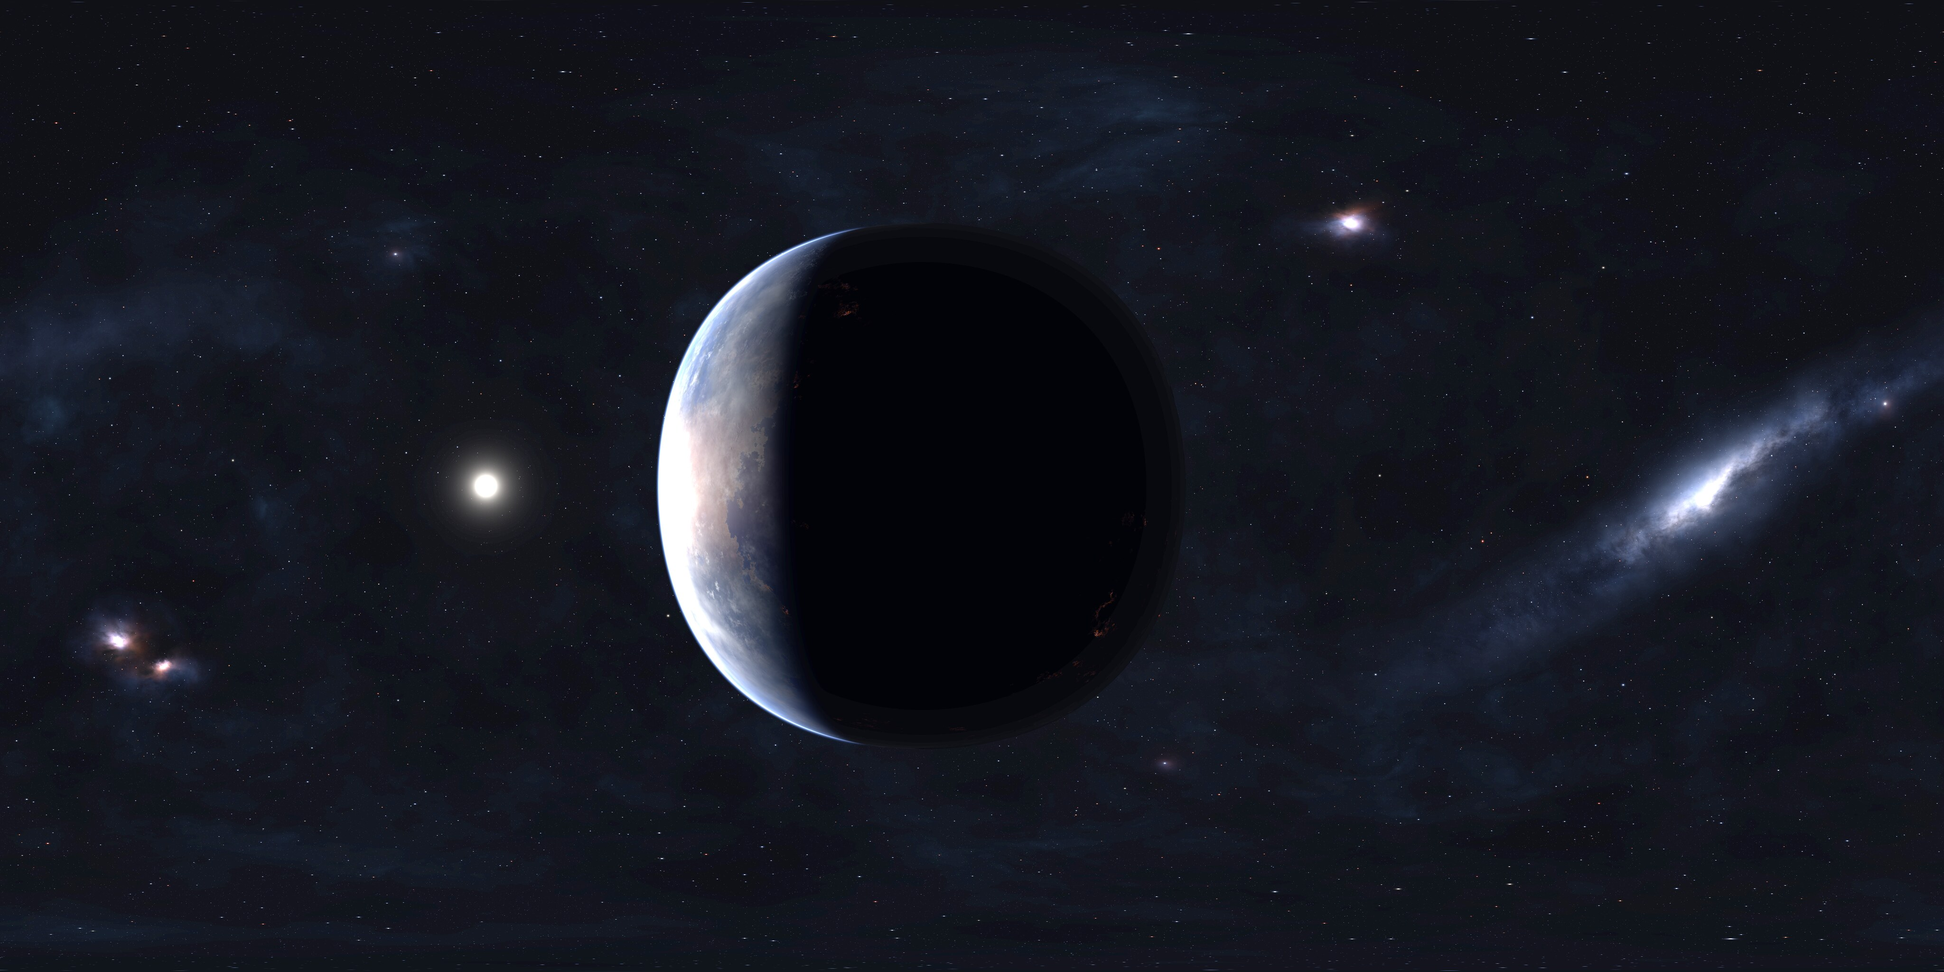
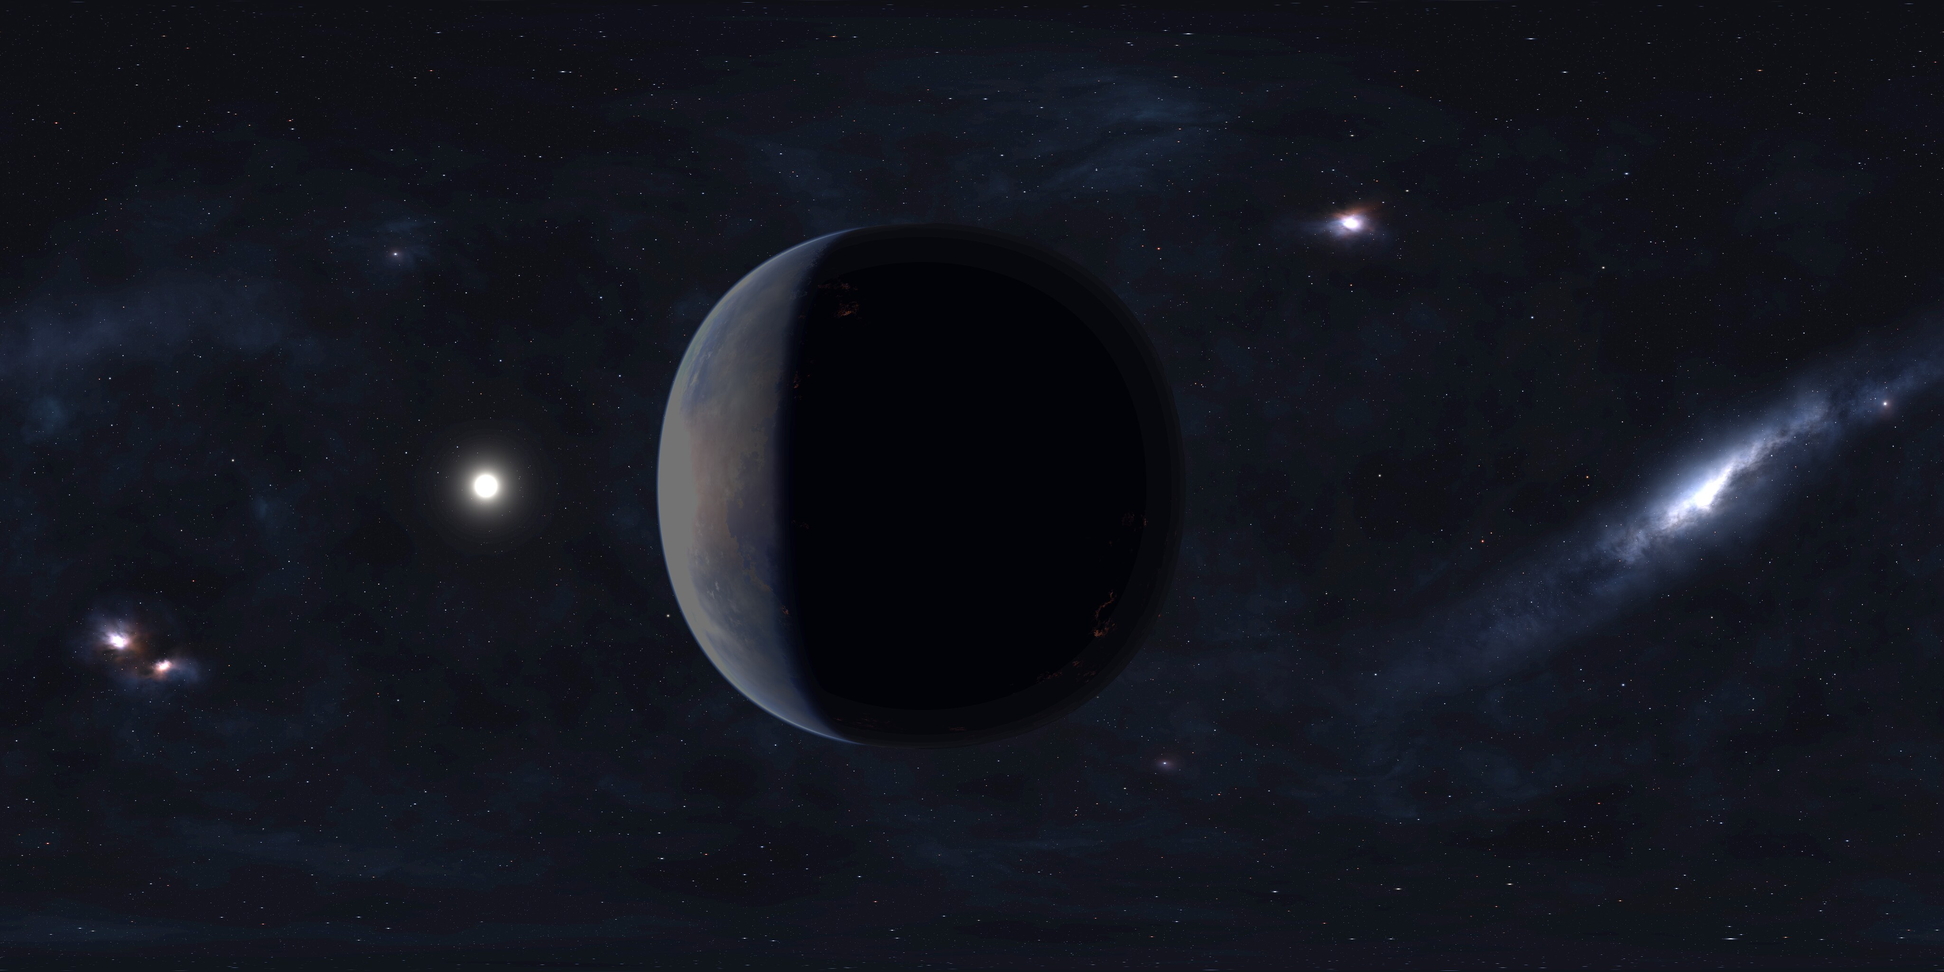
Skyboxes: planets darkened, crescent at the top edge in the default and chase views
The four planet textures are re-graded and darkened inside a soft disc mask
(lit crescent ~230 -> ~105). Planets sit below the play plane (-24 deg,
Aurelia -4 deg) with sector yaws 12/16 so the crescent shows top centre in the
default and chase views and never behind the ship there; flat views may show
the planet behind the ship (mean disc luminance <= 37). Selftest stage 127
checks the placement; ui-shots measure the disc.

Claude-Session: https://claude.ai/code/session_013qZue1FgKUXpDCCcReaXcD

Changed region(s): [[0.3125, 0.25, 0.4375, 0.75]]

diff --git a/godot/scripts/UiShots.Sky.cs b/godot/scripts/UiShots.Sky.cs
@@ -1,3 +1,5 @@
+using System.Collections.Generic;
+using System.IO;
 using System.Linq;
 using Godot;
 using SpaceSim.Core.Model;
@@ -6,7 +8,7 @@ namespace SpaceAdventure;
 
 /// <summary>
 /// Bilder der Himmelskugeln (<c>--ui-shots-sky</c>, eigene Datei; Stufen 599_xxx): je Sektor Standardkamera, Rückansicht (Kurs -Z) und weit
-/// herausgezoomt. Aufruf am besten im Handyformat: <c>godot-mono --path godot --resolution 2340x1080 -- --ui-shots &lt;ordner&gt; --ui-shots-sky</c>.
+/// herausgezoomt; Planetensektoren zusätzlich steil (80°), flach (20°) und flache Rückansicht, mit Messung der Planetenscheibe (<c>sky-messung.txt</c>). Aufruf am besten im Handyformat: <c>godot-mono --path godot --resolution 2340x1080 -- --ui-shots &lt;ordner&gt; --ui-shots-sky</c>.
 /// </summary>
 public partial class UiShots
 {
@@ -24,6 +26,8 @@ public partial class UiShots
 		if (_skyIdx >= list.Length) { _m.TestCameraAction("cam_free"); _m.TestMenu("cam_reset"); _stage = 600_000; _wait = 5; return; }
 		var sec = u.Sectors[list[_skyIdx]];
 		string name = sec.Name.Replace("Sektor ", "").ToLowerInvariant();
+		bool planet = sec.Planet is not null;
+		string F(string view) => $"sky-{_skyIdx + 1:00}-{name}-{view}.png";
 		switch (_stage)
 		{
 			case 599_010:
@@ -39,11 +43,71 @@ public partial class UiShots
 				_m.TestSetCam(0f, 57.72f, 44.94f);   // Standardansicht: Versatz (0, 38, 24)
 				_stage = 599_011; _wait = 30; return;
 			}
-			case 599_011: Capture($"sky-{_skyIdx + 1:00}-{name}-standard.png"); _stage = 599_012; _wait = 5; return;
-			case 599_012: _m.TestCameraAction("cam_chase"); _stage = 599_013; _wait = 45; return;
-			case 599_013: Capture($"sky-{_skyIdx + 1:00}-{name}-rueckansicht.png"); _stage = 599_014; _wait = 5; return;
+			case 599_011: SkyCapture(F("standard"), sec); _stage = planet ? 599_020 : 599_012; _wait = 5; return;
+			// Planetensektoren: zusätzlich steil (80°) und flach (20°) — Lage der Planetenscheibe und ihre Helligkeit (sky-messung.txt)
+			case 599_020: _m.TestSetCam(0f, 80f, 44.94f); _stage = 599_021; _wait = 20; return;
+			case 599_021: SkyCapture(F("steil"), sec); _stage = 599_022; _wait = 5; return;
+			case 599_022: _m.TestSetCam(0f, 20f, 44.94f); _stage = 599_023; _wait = 20; return;
+			case 599_023: SkyCapture(F("flach"), sec); _stage = 599_012; _wait = 5; return;
+			case 599_012: _m.TestCameraAction("cam_chase"); _m.TestCameraAction("cam_reset"); _stage = 599_013; _wait = 90; return;   // Rückansicht auf Höhe 45 / Abstand 35
+			case 599_013: SkyCapture(F("rueckansicht"), sec); _stage = planet ? 599_030 : 599_014; _wait = 5; return;
+			// flache Rückansicht: Höhe 45 → 15 (drei Stufen tiefer), Abstand 35
+			case 599_030: for (int i = 0; i < 3; i++) _m.TestCameraAction("chase_down"); _stage = 599_031; _wait = 90; return;
+			case 599_031: SkyCapture(F("rueck-flach"), sec); _m.TestCameraAction("cam_reset"); _stage = 599_014; _wait = 5; return;
 			case 599_014: _m.TestCameraAction("cam_free"); _m.TestSetCam(0f, 30f, 140f); _stage = 599_015; _wait = 20; return;
-			case 599_015: Capture($"sky-{_skyIdx + 1:00}-{name}-weit.png"); _skyIdx++; _stage = 599_010; _wait = 5; return;
+			case 599_015: SkyCapture(F("weit"), sec); _skyIdx++; _stage = 599_010; _wait = 5; return;
+		}
+	}
+
+	/// <summary>
+	/// Bild speichern und — in Planetensektoren — die Planetenscheibe im Bild vermessen: Bildpunkte, deren Sichtstrahl höchstens den Planetenradius
+	/// von der Planetenmitte (Welt: Gier <c>skyboxYaw</c>, Höhe <c>elevation</c>) abweicht. Zeile in <c>sky-messung.txt</c>: Anteil am Bild,
+	/// mittlere und 90-%-Leuchtdichte (Rec. 709 auf den sRGB-Werten 0–255), ob die Bildmitte in der Scheibe liegt, Lage der Scheibe im Bild, Kameraneigung.
+	/// </summary>
+	void SkyCapture(string file, Sector sec)
+	{
+		string path = Path.Combine(_dir, file);
+		var cam = _m.TestCam;
+		RenderingServer.FramePostDraw += Shot;
+		void Shot()
+		{
+			RenderingServer.FramePostDraw -= Shot;
+			var img = GetViewport().GetTexture().GetImage();
+			var err = img.SavePng(path);
+			GD.Print($"[ui-shots] {file}  {img.GetWidth()}x{img.GetHeight()}  err={err}");
+			if (sec.Planet is null || !World.SkyboxView.Manifest.TryGetValue(sec.Skybox, out var e) || e.Radius <= 0f) return;
+			int w = img.GetWidth(), h = img.GetHeight();
+			var c = World.SkyboxView.WorldDir(sec.SkyboxYaw, e.Elevation).Normalized();
+			float cosR = Mathf.Cos(Mathf.DegToRad(e.Radius));
+			float t = Mathf.Tan(Mathf.DegToRad(cam.Fov * 0.5f)), aspect = (float)w / h;
+			var b = cam.GlobalBasis;
+			var lums = new List<float>();
+			long all = 0;
+			float sx = 0f, sy = 0f, minY = 1f, maxY = 0f, minX = 1f, maxX = 0f;
+			for (int y = 0; y < h; y += 2)
+				for (int x = 0; x < w; x += 2)
+				{
+					all++;
+					var r = (b * new Vector3((2f * (x + 0.5f) / w - 1f) * t * aspect, (1f - 2f * (y + 0.5f) / h) * t, -1f)).Normalized();
+					if (r.Dot(c) < cosR) continue;
+					var px = img.GetPixel(x, y);
+					float fx = (x + 0.5f) / w, fy = (y + 0.5f) / h;
+					sx += fx; sy += fy; minX = Mathf.Min(minX, fx); maxX = Mathf.Max(maxX, fx); minY = Mathf.Min(minY, fy); maxY = Mathf.Max(maxY, fy);
+					lums.Add(255f * (0.2126f * px.R + 0.7152f * px.G + 0.0722f * px.B));
+				}
+			var fwd = -b.Z;
+			bool centre = fwd.Normalized().Dot(c) >= cosR;
+			float pitch = Mathf.RadToDeg(Mathf.Asin(-fwd.Normalized().Y));
+			string line;
+			if (lums.Count == 0) line = $"{file}\tNeigung {pitch:0.0}°\tPlanet nicht im Bild";
+			else
+			{
+				lums.Sort();
+				float mean = 0f; foreach (var l in lums) mean += l; mean /= lums.Count;
+				line = $"{file}\tNeigung {pitch:0.0}°\tPlanet {100.0 * lums.Count / all:0.0} % des Bildes\tmittlere Leuchtdichte {mean:0.0}\t90 % {lums[(int)(0.9f * (lums.Count - 1))]:0.0}\tmax {lums[^1]:0}\tBildmitte {(centre ? "IM Planeten" : "frei")}\tScheibe x {minX:0.00}–{maxX:0.00} (Mitte {sx / lums.Count:0.00}), y {minY:0.00}–{maxY:0.00} (Mitte {sy / lums.Count:0.00}; 0 = oben)";
+			}
+			GD.Print("[sky-messung] " + line);
+			File.AppendAllText(Path.Combine(_dir, "sky-messung.txt"), line + "\n");
 		}
 	}
 }

diff --git a/godot/scripts/SelfTest.Skybox.cs b/godot/scripts/SelfTest.Skybox.cs
@@ -7,7 +7,7 @@ namespace SpaceAdventure;
 
 /// <summary>
 /// Selbsttest-Stufe 127 (Himmelskugeln): jeder Sektor der Standardwelt bekommt einen Himmel aus dem Verzeichnis; Planetensektoren einen Himmel mit
-/// Planet und <b>keine</b> zusätzliche Planetenkugel, alle anderen einen Himmel ohne Planet; der Hintergrund ist der Himmel (nicht die Farbe); die
+/// Planet (Scheibe am oberen Bildrand der Standard- und Rückansicht, Schiff außerhalb) und <b>keine</b> zusätzliche Planetenkugel, alle anderen einen Himmel ohne Planet; der Hintergrund ist der Himmel (nicht die Farbe); die
 /// Drehung legt den Fokus-Bildpunkt in die vorgesehene Richtung; ein echter Torsprung tauscht den Himmel; im selben Sektor wird die Textur nicht
 /// erneut geladen (höchstens ein Ladevorgang je Wechsel), es bleibt genau eine Himmelskomponente.
 /// </summary>
@@ -54,6 +54,32 @@ public partial class SelfTest
 				var focus = SkyboxView.PanoramaDir(e.FocusU, e.FocusV);
 				var aimed = sky.Rotation * SkyboxView.WorldDir(sec.SkyboxYaw, e.Elevation);
 				Check(aimed.DistanceTo(focus) < 0.01f, $"Himmel: {sec.Name} Fokus in Blickrichtung (Abweichung {aimed.DistanceTo(focus):0.000})");
+				if (planet)
+				{
+					// Planet unter der Ebene, aber am oberen Bildrand: in der Standardansicht (freie Kamera 57,7°, Bildmitte = Schiff) und in der
+					// Standard-Rückansicht (Höhe 45 / Abstand 35, Schiff im unteren Drittel) ist die Scheibe sichtbar, liegt im oberen Bildteil
+					// (Schwerpunkt im oberen Drittel, nicht unter den Eckfeldern des HUD), und das Schiff steht außerhalb der Scheibe.
+					Check(e.Radius > 0f && e.Elevation <= 0f, $"Himmel: {sec.Name} Planet unter der Ebene (Mitte {e.Elevation:0.0}°, Radius {e.Radius:0.0}°)");
+					var c = SkyboxView.WorldDir(sec.SkyboxYaw, e.Elevation);
+					float fov = _m.TestCam.Fov;
+					var vp = _m.GetViewport().GetVisibleRect().Size;
+					float aspect = vp.Y > 0f ? vp.X / vp.Y : 16f / 9f;
+					float freePitch = SpaceSim.Core.Flight.OrbitCamera.DefaultPitchDeg;
+					float chaseH = SpaceSim.Core.Flight.OrbitCamera.DefaultChaseHeight, chaseB = SpaceSim.Core.Flight.OrbitCamera.DefaultChaseBack;
+					float chasePitch = Mathf.RadToDeg(Mathf.Atan2(chaseH, chaseB));
+					float chaseShip = Mathf.RadToDeg(Mathf.Atan2(chaseH, chaseB * (1f - SpaceSim.Core.Flight.OrbitCamera.LookAheadShare)));
+					foreach (var (view, pitch, ship) in new[] { ("Standardansicht", freePitch, freePitch), ("Rückansicht", chasePitch, chaseShip) })
+					{
+						var (share, cx, cy, maxY) = DiscOnScreen(c, e.Radius, pitch, fov, aspect);
+						Check(share >= 0.05f && cy < 0.3f && maxY < 0.6f && cx > 0.25f && cx < 0.8f,
+							$"Himmel: {sec.Name} {view}: Planet oben im Bild (Anteil {share:P0}, Schwerpunkt x {cx:0.00} y {cy:0.00}, unterster Scheibenpunkt y {maxY:0.00})");
+						float gap = Mathf.RadToDeg(SkyboxView.WorldDir(0f, -ship).AngleTo(c)) - e.Radius;
+						Check(gap >= 5f, $"Himmel: {sec.Name} {view}: Schiff außerhalb der Scheibe (Abstand zum Rand {gap:0.0}°)");
+					}
+					var fwd = -_m.TestCam.GlobalBasis.Z.Normalized();
+					Check(Mathf.RadToDeg(fwd.AngleTo(c)) > e.Radius, $"Himmel: {sec.Name} Kamera blickt nicht in den Planeten");
+				}
+				else Check(e.Radius == 0f, $"Himmel: {sec.Name} Sternhimmel ohne Planetenradius");
 				int d = sky.Loads - _skyLoads;
 				Check(d <= 1, $"Himmel: {sec.Name} höchstens ein Ladevorgang beim Wechsel ({d})");
 			}
@@ -90,4 +116,27 @@ public partial class SelfTest
 		}
 		return false;
 	}
+
+	/// <summary>
+	/// Lage der Planetenscheibe (Mitte <paramref name="c"/>, Winkelradius <paramref name="radiusDeg"/>) im Bild einer Kamera mit Blick nach -Z, Neigung
+	/// <paramref name="pitchDeg"/> nach unten: Bildanteil, mittleres x und y (0..1) und unterstes y (0 oben, 1 unten) der Scheibenpunkte (Raster 96 × 48).
+	/// </summary>
+	static (float Share, float CenterX, float CenterY, float MaxY) DiscOnScreen(Vector3 c, float radiusDeg, float pitchDeg, float fovDeg, float aspect)
+	{
+		var f = SkyboxView.WorldDir(0f, -pitchDeg);
+		var z = -f; var x = Vector3.Up.Cross(z).Normalized(); var y = z.Cross(x);
+		float t = Mathf.Tan(Mathf.DegToRad(fovDeg * 0.5f)), cosR = Mathf.Cos(Mathf.DegToRad(radiusDeg));
+		const int W = 96, H = 48;
+		int n = 0; float sx = 0f, sy = 0f, maxY = 0f;
+		for (int j = 0; j < H; j++)
+			for (int i = 0; i < W; i++)
+			{
+				float u = (i + 0.5f) / W, v = (j + 0.5f) / H;
+				var r = ((2f * u - 1f) * t * aspect * x + (1f - 2f * v) * t * y - z).Normalized();
+				if (r.Dot(c) < cosR) continue;
+				n++; sx += u; sy += v; maxY = Mathf.Max(maxY, v);
+			}
+		return n == 0 ? (0f, -1f, 1f, 1f) : ((float)n / (W * H), sx / n, sy / n, maxY);
+	}
 }
+

diff --git a/godot/scripts/World/SkyboxView.cs b/godot/scripts/World/SkyboxView.cs
@@ -14,14 +14,25 @@ namespace SpaceAdventure.World;
 /// <para>
 /// Die Kamera blickt schräg <b>nach unten</b> auf die Spielebene (Neigung 15–85°), der sichtbare Himmel liegt also vor allem unterhalb des
 /// Horizonts. Deshalb dreht die Komponente jedes Panorama so, dass der Fokus-Bildpunkt (Planetenmitte bzw. Galaxienband) in Höhe
-/// <c>elevation</c> vor der Standardkamera (Blick nach -Z) liegt. Das Umgebungslicht bleibt eine feste Farbe, Spiegelungen aus dem Himmel sind aus —
+/// <c>elevation</c> vor der Standardkamera (Blick nach -Z, gedreht um <c>skyboxYaw</c>) liegt. Planeten stehen <b>unter</b> der Ebene, aber so hoch, dass die
+/// Standardansicht (Neigung 57,7°, Bildoberkante <see cref="DefaultTopEdgeDeg"/>) und die Rückansicht ihre beleuchtete Sichel am oberen Bildrand zeigen und das
+/// Schiff außerhalb der Scheibe bleibt; in sehr flachen Ansichten steht der Planet hinter dem Schiff — die Planetentexturen sind dafür abgedunkelt. Das Umgebungslicht bleibt eine feste Farbe, Spiegelungen aus dem Himmel sind aus —
 /// die Textur färbt Schiffe, Stationen und Felsen nicht ein.
 /// </para>
 /// Die Textur wird nur beim Wechsel des Himmels geladen (<see cref="Loads"/>); der vorige Himmel wird freigegeben (ein Himmel im Speicher).
 /// </summary>
 public partial class SkyboxView : Node
 {
-	public sealed record Entry(string Key, string File, bool Planet, float FocusU, float FocusV, float Elevation);
+	/// <param name="Radius">Winkelradius des Planeten in Grad (0 = kein Planet); mit <see cref="Elevation"/> legt er fest, wie weit die Scheibe in die
+	/// Standardansicht hineinreicht (<see cref="LowerLimb"/>).</param>
+	public sealed record Entry(string Key, string File, bool Planet, float FocusU, float FocusV, float Elevation, float Radius = 0f)
+	{
+		/// <summary>Höhe des unteren Planetenrands in Grad über der Spielebene (Elevation − Radius).</summary>
+		public float LowerLimb => Elevation - Radius;
+	}
+
+	/// <summary>Höhe der Bildoberkante der Standardkamera in Grad über der Ebene (Neigung 57,7°, vertikales Sichtfeld 50°): −32,7°.</summary>
+	public static float DefaultTopEdgeDeg => -SpaceSim.Core.Flight.OrbitCamera.DefaultPitchDeg + 25f;
 
 	const string Dir = "res://assets/skyboxes/";
 	static Dictionary<string, Entry>? _manifest;
@@ -179,7 +190,8 @@ public partial class SkyboxView : Node
 				string file = s.GetProperty("file").GetString() ?? "";
 				if (key.Length == 0 || file.Length == 0 || !ResourceLoader.Exists(Dir + file)) { GD.PushWarning($"Himmel '{key}' ohne Datei"); GD.Print($"[sky] Himmel '{key}' ohne Datei {file}"); continue; }
 				map[key] = new Entry(key, file, s.GetProperty("planet").GetBoolean(),
-					s.GetProperty("focusU").GetSingle(), s.GetProperty("focusV").GetSingle(), s.GetProperty("elevation").GetSingle());
+					s.GetProperty("focusU").GetSingle(), s.GetProperty("focusV").GetSingle(), s.GetProperty("elevation").GetSingle(),
+					s.TryGetProperty("radius", out var rad) ? rad.GetSingle() : 0f);
 			}
 		}
 		catch (Exception ex) { GD.PushWarning("skyboxes.json unlesbar: " + ex.Message); GD.Print("[sky] skyboxes.json unlesbar: " + ex.Message); }

diff --git a/CLAUDE.md b/CLAUDE.md
@@ -1453,8 +1453,9 @@ Plan `/home/gerd/space-adventure-scratch-archiv/plan-r44/PLAN.md`, binding user 
 ## Skyboxes (English summary): a sky sphere per sector — with planet in planet sectors, without elsewhere
 
 User decision: planet sectors get a sky that shows their planet, all other sectors a sky without planet, both looking like one set. Source: spacespheremaps.com (CC BY 4.0, attribution waived, no AI image training), same artist and style for both groups; PNG originals kept outside the repo (`/home/gerd/space-adventure-scratch-archiv/skyboxen/quellen/`).
-- **Data.** `sectors[].skybox` (key, `a-z0-9_`, validated) and optional `skyboxYaw` (degrees) → `Sector.Skybox`/`SkyboxYaw`, saved additively in `SectorSave`, not hashed (default hash unchanged, 20 000 ticks 0E21B7977E4E0B92). View manifest `godot/assets/skyboxes/skyboxes.json`: key, file, `planet`, focus pixel (`focusU`/`focusV`) and its `elevation` (degrees above the play plane — the camera looks down, so planets sit at −24°, the galaxy band of the star skies at −45°). Default world: Beta `desert_planet`, Gamma `earthlike_planet`, Aurelia `earthlike_planet_close`, Kalypso `ice_planet`; Alpha `white_local_star_no_nebulae`, Delta `blue_local_star_and_nebulae` (yaw 160), Borealis `blue_local_star_no_nebulae` (70), Vesta `blue_local_star_and_nebulae` (−60), Hephaistos `red_local_star_and_nebulae` (120), Nebelmark `white_local_star_and_nebulae`, Abgrund `red_local_star_no_nebulae` (200).
+- **Data.** `sectors[].skybox` (key, `a-z0-9_`, validated) and optional `skyboxYaw` (degrees) → `Sector.Skybox`/`SkyboxYaw`, saved additively in `SectorSave`, not hashed (default hash unchanged, 20 000 ticks 0E21B7977E4E0B92). View manifest `godot/assets/skyboxes/skyboxes.json`: key, file, `planet`, focus pixel (`focusU`/`focusV`) and its `elevation` (degrees above the play plane — the camera looks down; the galaxy band of the star skies sits at −45°, planets below the plane, see "Planet placement") and, for planet skies, the planet's angular `radius`. Default world: Beta `desert_planet` (yaw 12), Gamma `earthlike_planet` (12), Aurelia `earthlike_planet_close` (16), Kalypso `ice_planet` (12); Alpha `white_local_star_no_nebulae`, Delta `blue_local_star_and_nebulae` (yaw 160), Borealis `blue_local_star_no_nebulae` (70), Vesta `blue_local_star_and_nebulae` (−60), Hephaistos `red_local_star_and_nebulae` (120), Nebelmark `white_local_star_and_nebulae`, Abgrund `red_local_star_no_nebulae` (200).
 - **Images.** One shared grading for all ten (ImageMagick `-resize 4096x2048 -level 0%,38%,1.2 -modulate 100,125 +level-colors #020309,#ffffff`, JPEG q88; `LICENSE.txt` in the folder), imported VRAM-compressed without mipmaps: 4 MiB per sky on the GPU (ETC2/S3TC), APK ≈ 40 MiB uncompressed / ≈ 16 MiB zipped for all ten.
 - **View.** `World/SkyboxView` (own component, created in `Main.BuildEnvironment`) follows `Universe.PlayerSector`, loads a texture only on a sky change (one sky in memory), sets `PanoramaSkyMaterial` + `Environment.SkyRotation` (focus pixel ahead of the default camera, no roll); ambient light stays a fixed colour, reflections from the sky are off. The sky planet replaces the old planet sphere (`SectorView.BuildPlanet` only without a resolvable sky); the star tiles stay for parallax but are now fine, dim dust in front of the sky (`Main.BuildStars`: cube edge 0.5 → `StarSize` 0.2, scale 0.4–1.6 → 0.5–1.3, i.e. 0.2–0.8 → 0.1–0.26 units; white emissive material with energy 2 → unshaded material with a per-instance colour of brightness `StarBrightMin`–`StarBrightMax` 0.22–0.55 and a ±6 % warm/cool tint, no glow; same seed, 500 stars, 3 × 3 tiles on the 800 grid unchanged; selftest stage 124 checks size, unshaded and brightness). Selftest stage 127 (`SelfTest.Skybox.cs`); `--ui-shots <dir> --ui-shots-sky` writes standard/chase/zoomed-out images per sector (`UiShots.Sky.cs`); tests `SkyboxTests`.
+- **Planet placement (device fix "Kalypso background a flat blue-grey", user decision "middle way").** The original placement (centre −24°, Aurelia −6°, bright textures) put the bright disc behind the ship in flat views (35–99 % of the screen, lit crescent up to 255); a first fix moved the planets above the plane, which hid them in normal play. Now: the planets stand **below** the plane roughly where they were, but their textures are **darkened**: manifest `elevation` −24° for desert/earthlike/ice planet (radius 25.5°, `focusU` 0.447) and −4° for `earthlike_planet_close` (radius 48.5°, 0.477), sector yaw 12° (Aurelia 16°) so the lit crescent (left side of each disc) sits top-centre between the status panel and the target card. The default view (free camera 57.7°, vertical FOV 50°, top edge −32.7°, `SkyboxView.DefaultTopEdgeDeg`) and the default chase view (height 45 / back 35, 52.1°) show the disc at the top edge with the ship outside it (≥ 5° from the limb); at steep pitch (80°) the planet is out of view; at flat pitch (free 20°, zoomed-out 30°, chase height 15) the disc stands behind the ship — accepted, kept calm by the darkening. **Darkening:** the four planet textures were re-graded from the sources (same shared grading, then `darken.py` in `/home/gerd/space-adventure-scratch-archiv/skyboxen/planeten/py/`: inside a soft angular mask around the planet centre — r 26.5→30° resp. 49.5→54° — pixels above luminance 40 are compressed to 40 + (L − 40) × 0.35, 5 % desaturated; space, stars and the dark side unchanged, star skies untouched). Measured on screen (`--ui-shots <dir> --ui-shots-sky`, 1560×720 = device aspect; planet sectors also `steil` 80°, `flach` 20°, `rueck-flach` chase height 15; `sky-messung.txt` gives the mean Rec. 709 luminance of the disc pixels — HUD and stations in front included — and the disc's screen box): default view disc 13 % (Aurelia 26 %) of the screen, y 0–0.36 (Aurelia 0–0.45), mean 25–28; chase view 19 % (Aurelia 34 %), y 0–0.47 (0.56), mean 29–37; flat views (free 20°, zoomed-out 30°, chase height 15 — screen centre in the disc) mean 26–37 (original 40–73), 90 % quantile 85–117 (original 139–253); steep view no planet (Aurelia a 0.1 % sliver at the top edge). Selftest stage 127 checks per planet sector: centre below the plane, in the default and the chase view the disc covers ≥ 5 % of the screen with its centroid in the upper third (x 0.25–0.8, lowest point above 60 % of the height) and the ship ≥ 5° outside the disc, the live camera does not look into it; star skies have radius 0.
 - **Device fix: black sky with an old save.** Saves written before the skybox commit have no `Skybox` per sector, so `SkyboxView` fell silently into the colour background (exactly the (0,0,13) black of the device screenshots; Vulkan/Forward Mobile on Mali-G57 and ETC2 textures were ruled out — the ETC2 `.ctex` renders on desktop). `UniverseSerializer.FillDefaultSkyboxes` (called at the end of `FromSave`): if no sector has a sky and every sector exists by id and name in the embedded default world (also the old 4-sector world), the skies and yaws of the default world are taken over; custom worlds stay untouched; not hashed. `SkyboxView` prints one `[sky]` line at start (manifest count, renderer/driver, GPU, ETC2/S3TC/ASTC) and one per sky change (sector, key or "kein Himmel", texture path/size/format, background mode, sky/material set). Tests `SkyboxTests` (+2).
 - **ui-check order.** A single run reported "Hinweis verdeckt „Waferfabrik Beta · 10 m“ (gezeichnet)" at `2340x1080a f1,30 meldung-toast` (not reproduced in 4 targeted + 2 full runs; not caused by the sky — the state depends on where earlier states left the ship). The tool processed after `Main`/`Hud` in each frame, so it read the toast's current-frame rect against edge names drawn in the previous frame (the edge names avoid the toast of their own frame); it now runs first (`ProcessPriority` −1000), so everything it reads is the last drawn state.
